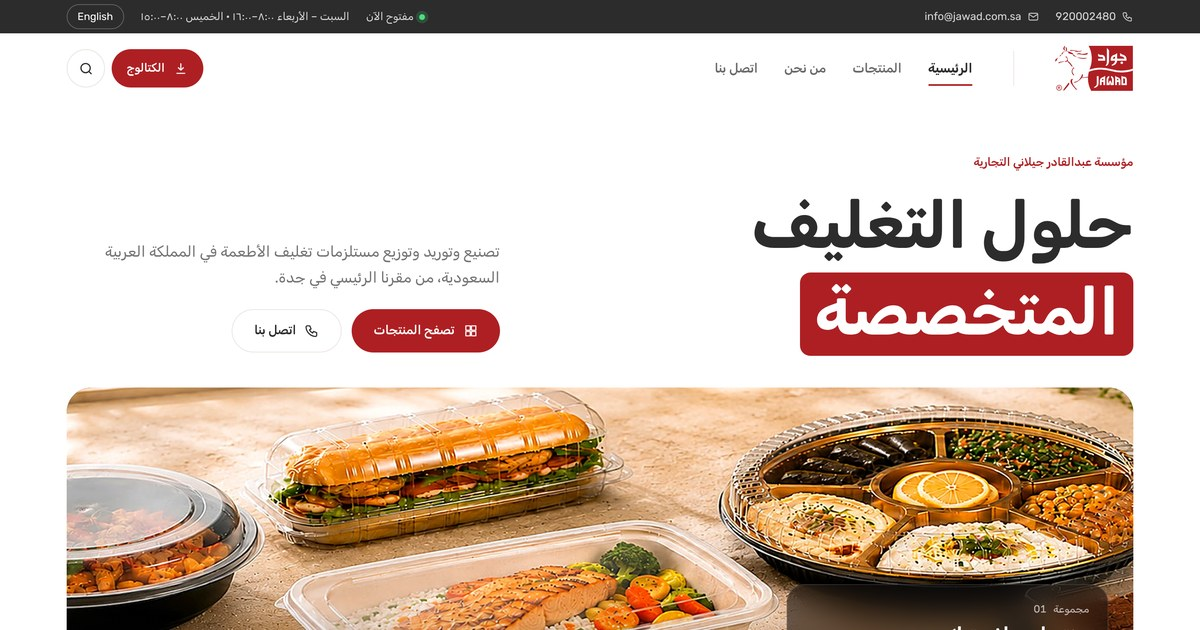
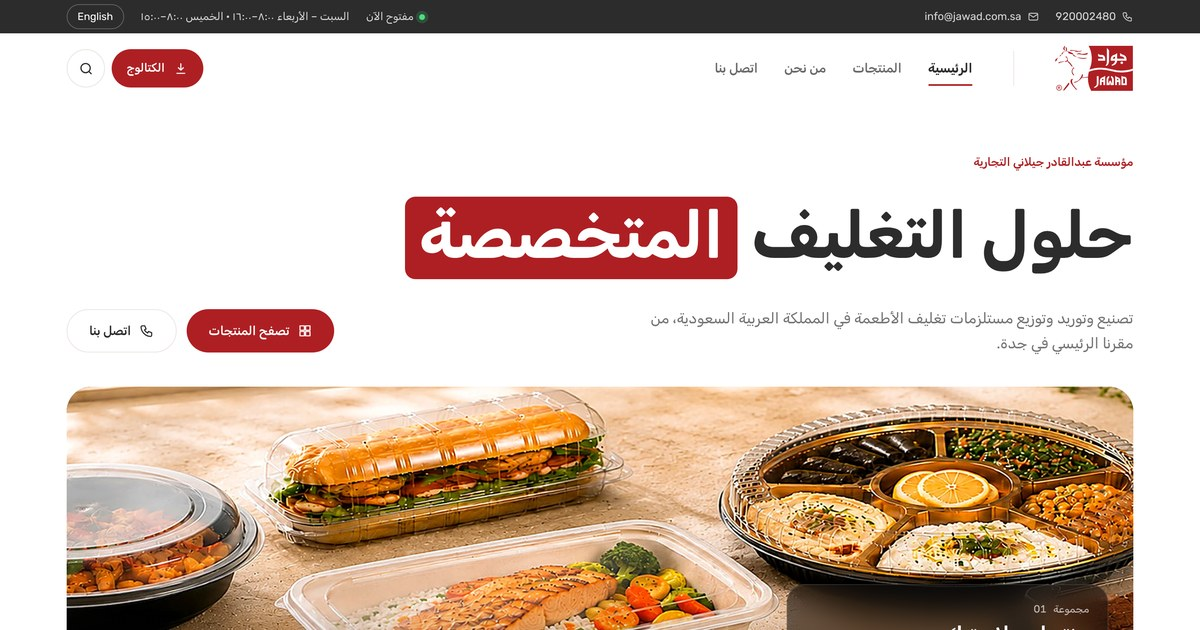
Jawad page: hero title on one line with the intro and buttons below it
Claude-Session: https://claude.ai/code/session_01XmvRQvnwC1LYVFBXAPJEqj

diff --git a/public/jawad/index.html b/public/jawad/index.html
@@ -122,12 +122,14 @@ html[dir=ltr] .drawer{transform:translateX(-100%)}
 
 /* Hero slider */
 .hero{padding-top:18px}
-.hero-top{display:grid;grid-template-columns:1.15fr .85fr;gap:clamp(24px,4vw,64px);align-items:end;padding-block:clamp(18px,3vw,40px) clamp(24px,3vw,36px)}
+.hero-top{display:grid;grid-template-columns:minmax(0,1fr);gap:clamp(18px,2.2vw,30px);align-items:start;padding-block:clamp(18px,3vw,40px) clamp(24px,3vw,36px)}
 .hero-top .ht-a{display:grid;gap:18px;min-width:0}
-.hero-top h1{font-size:clamp(38px,5.4vw,82px);font-weight:700;line-height:1.05;letter-spacing:-.02em;color:var(--ink)}
+.hero-top h1{white-space:nowrap;font-size:clamp(34px,5.4vw,84px);font-weight:700;line-height:1.05;letter-spacing:-.02em;color:var(--ink)}
 html[lang=ar] .hero-top h1{line-height:1.18;letter-spacing:0}
 .hero-top h1 em{font-style:normal;color:#fff;background:var(--red);display:inline-block;padding:.04em .22em .12em;margin-block:.14em .02em;border-radius:.16em;line-height:1.12}
-.hero-top .ht-b{display:grid;gap:22px;min-width:0;padding-bottom:6px}
+.hero-top .ht-b{display:flex;align-items:center;justify-content:space-between;flex-wrap:wrap;gap:20px 40px;min-width:0}
+.hero-top .ht-b .lead{max-width:620px;margin:0;text-wrap:pretty}
+.hero-top h1.wrap{white-space:normal;text-wrap:balance}
 .hero-top .row{display:flex;gap:12px;flex-wrap:wrap}
 .slider{position:relative;border-radius:30px;overflow:hidden;background:var(--ink-2);aspect-ratio:3/1;min-height:380px;isolation:isolate}
 .cap{position:absolute;z-index:6;inset-inline-start:clamp(16px,2.4vw,30px);bottom:clamp(16px,2.4vw,30px);display:grid;gap:4px;max-width:min(440px,60%);padding:18px 22px 18px;border-radius:22px;background:rgba(18,16,16,.58);backdrop-filter:blur(16px) saturate(140%);-webkit-backdrop-filter:blur(16px) saturate(140%);color:#fff;border:1px solid rgba(255,255,255,.12);transition:background .3s}
@@ -787,7 +789,18 @@ function homeHTML(){
   <div style="display:grid;gap:14px"><h2>${t('ctaT')}</h2><p>${t('ctaP')}</p></div>
   <div class="row"><a class="btn btn-white" href="${CATALOG}" target="_blank" rel="noopener">${I('download')}${t('fCatalog')}</a><a class="btn btn-line-w" href="#contact">${I('phone')}${t('nContact')}</a></div>
 </div></div></section>`}
-function bindHome(){
+/* hero title on one line: shrink to fit the width; on narrow phones where one line would be too small, let it wrap */
+function fitHero(){const h=document.querySelector('.hero-top h1');if(!h)return;
+  h.classList.remove('wrap');h.style.fontSize='';const max=parseFloat(getComputedStyle(h).fontSize);
+  const avail=h.parentElement.clientWidth;const r=document.createRange();r.selectNodeContents(h);const w=r.getBoundingClientRect().width;
+  const fs=Math.min(84,max*(innerWidth<1100?1.4:1),max*avail/w*.985);
+  if(fs>=(L==='ar'?28:30)){h.style.fontSize=fs.toFixed(2)+'px';return}
+  /* phones: two balanced lines, as large as fits */
+  h.classList.add('wrap');const lines=()=>{const t=new Set();for(const q of r.getClientRects())if(q.width>1)t.add(Math.round(q.top/4));return t.size};
+  let f=42;h.style.fontSize=f+'px';r.selectNodeContents(h);while(f>28&&lines()>2){f-=1;h.style.fontSize=f+'px';r.selectNodeContents(h)}
+  if(lines()>2)h.style.fontSize='34px'}
+addEventListener('resize',()=>{if(route==='home')fitHero()});
+function bindHome(){fitHero();document.fonts&&document.fonts.ready.then(fitHero);
   // slider
   const sl=[...document.querySelectorAll('.slide')],bars=[...document.querySelectorAll('#bars button')],cnt=document.getElementById('cnt');let i=0;
   const show=n=>{if(n===i)return;const prev=sl[i];prev.classList.remove('on','enter');prev.classList.add('leaving');setTimeout(()=>prev.classList.remove('leaving'),1400);
